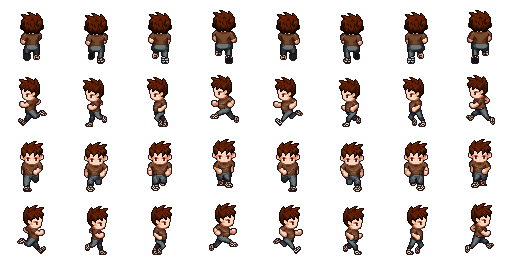
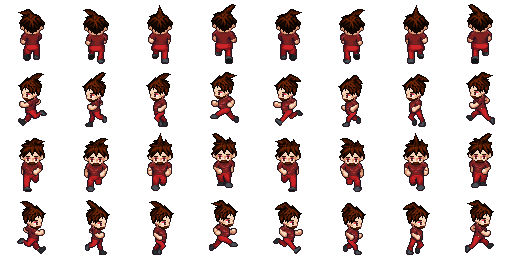
simple change of main character png sheets

diff --git a/app/phaser/SceneOne.ts b/app/phaser/SceneOne.ts
@@ -518,25 +518,25 @@ export default class SceneOne extends Phaser.Scene {
     // BACK TO IDLE ANIMATION
     this.anims.create({
       key: "idle-up",
-      frames: [{ key: "idle", frame: 0 }],
+      frames: [{ key: "walk", frame: 0 }],
       frameRate: 1,
       repeat: -1,
     });
     this.anims.create({
       key: "idle-left",
-      frames: [{ key: "idle", frame: 2 }],
+      frames: [{ key: "walk", frame: 9 }],
       frameRate: 1,
       repeat: -1,
     });
     this.anims.create({
       key: "idle-right",
-      frames: [{ key: "idle", frame: 6 }],
+      frames: [{ key: "walk", frame: 27 }],
       frameRate: 1,
       repeat: -1,
     });
     this.anims.create({
       key: "idle-down",
-      frames: [{ key: "idle", frame: 4 }],
+      frames: [{ key: "walk", frame: 18 }],
       frameRate: 1,
       repeat: -1,
     });
